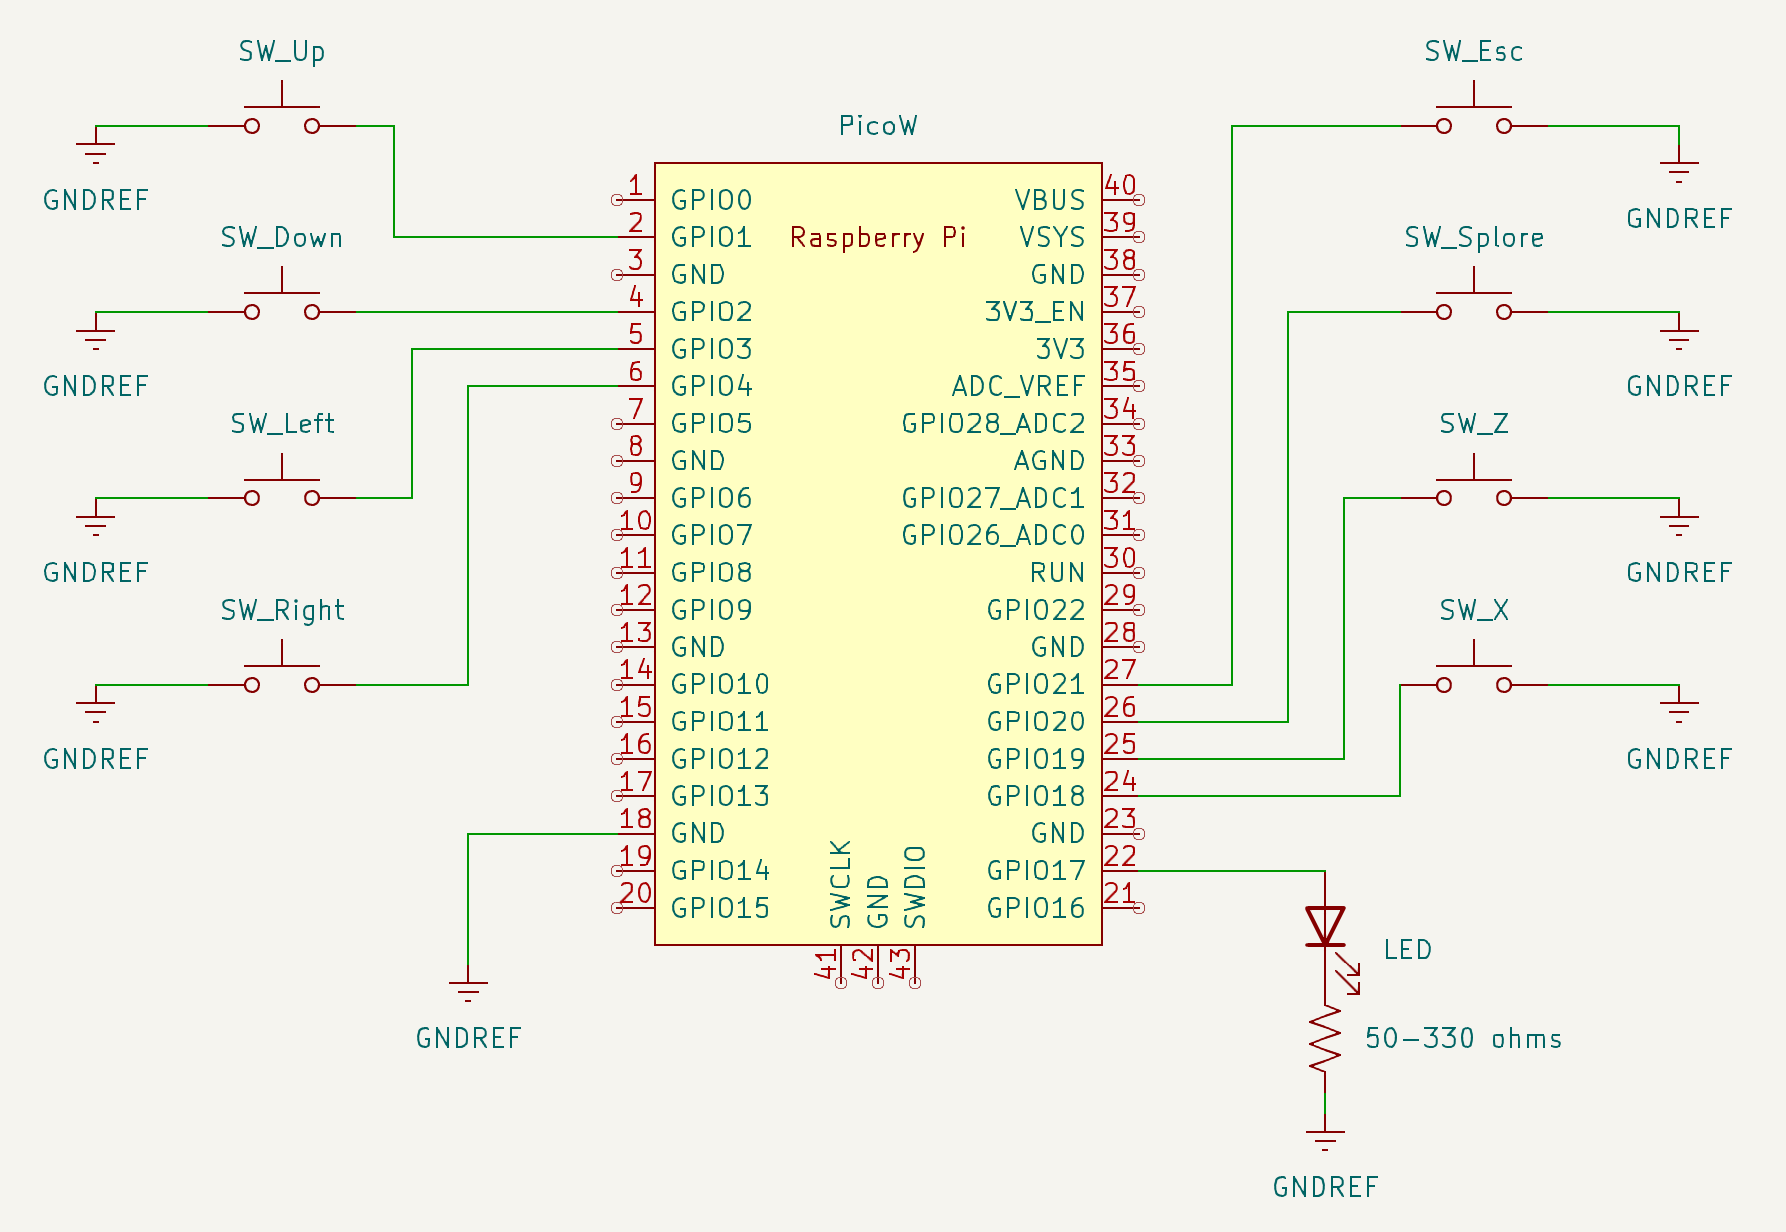
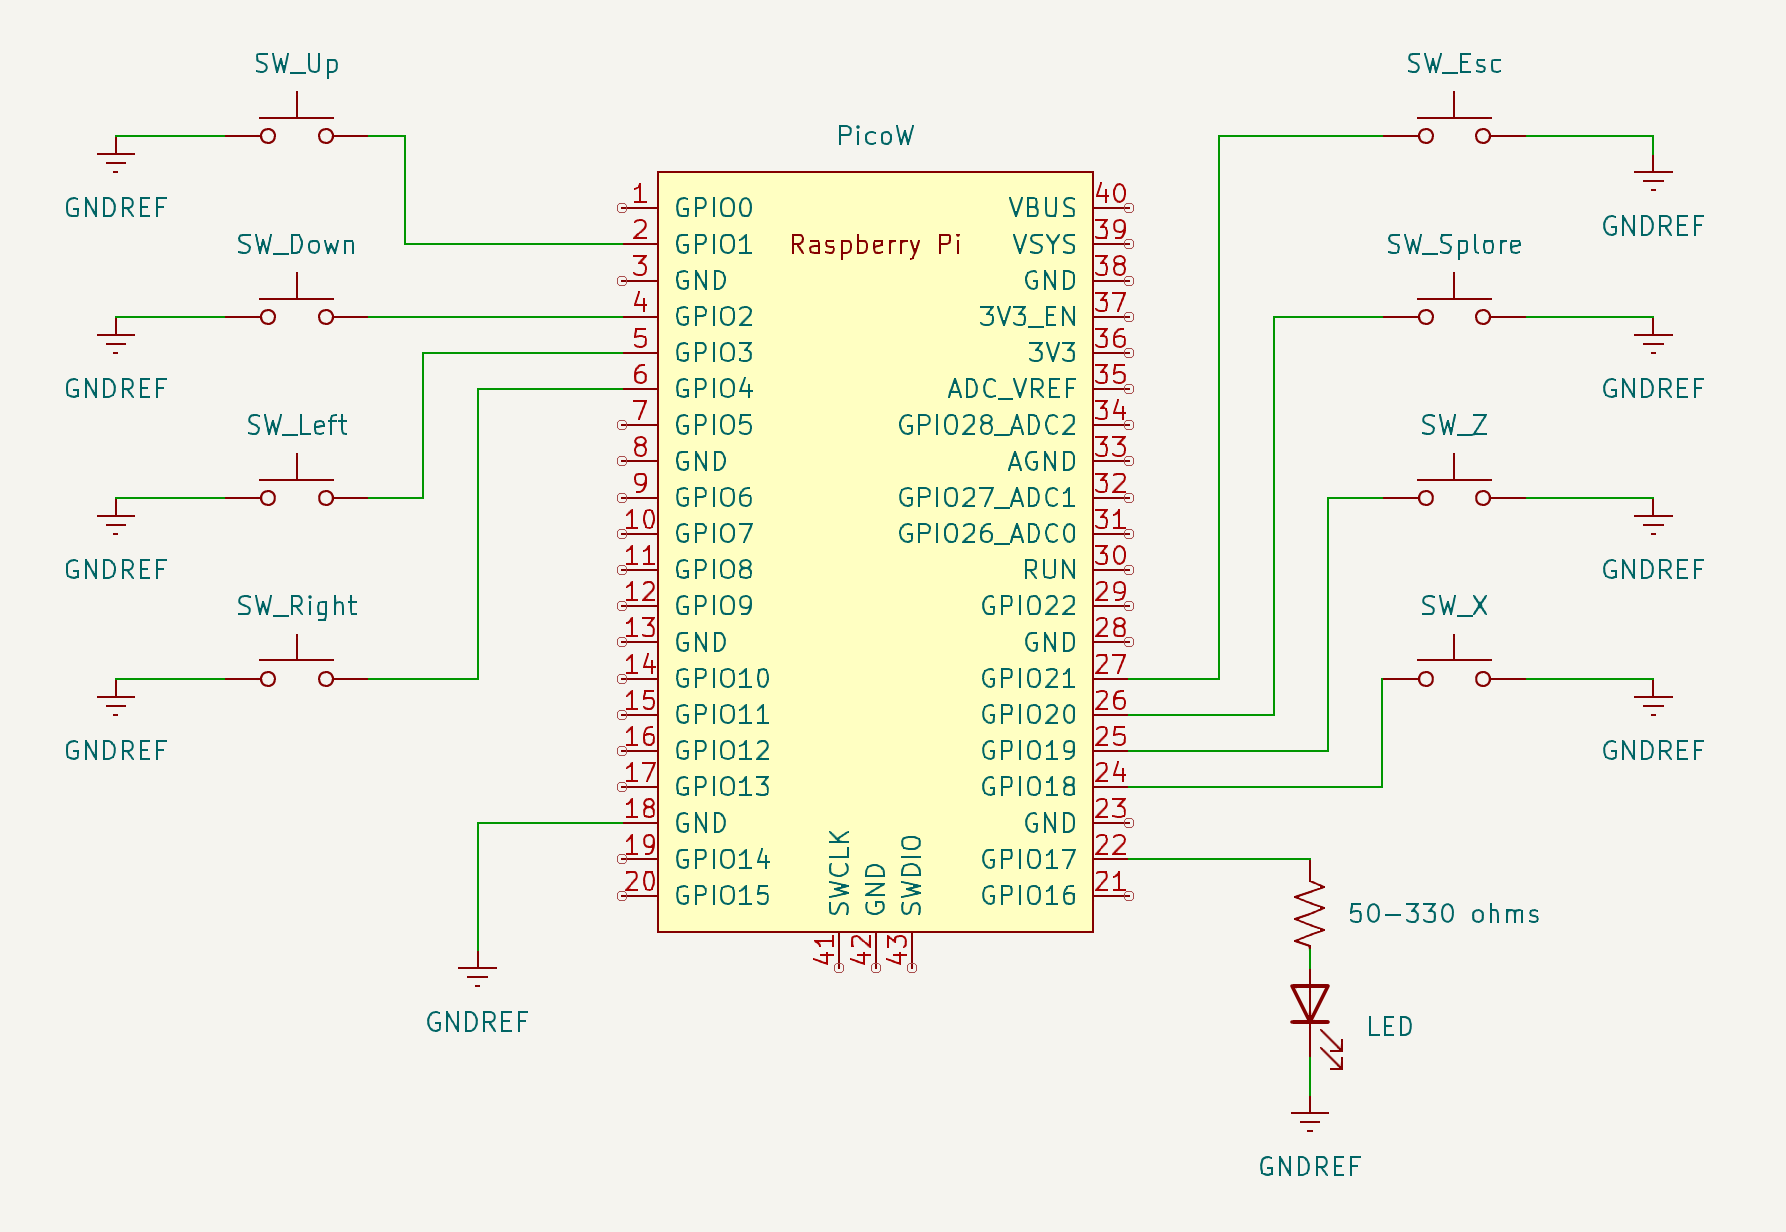
:baby: fix resistor possition on schematics

diff --git a/README.md b/README.md
@@ -6,14 +6,11 @@ NOTE: this is Work In Progress! I am still designing the product; the following 
 
 <img alt='PICO-8 arcade controller concept' src='https://github.com/isacben/picocade/blob/main/img/concept.png' width='500'>
 
-## Schematics
+## Documentation 
 
-Notes:
+The list of parts (BOM) and the guide to build this arcade controller is here:
 
-- [Download the Raspberry Pi Pico KiCad symbol](https://forums.raspberrypi.com/viewtopic.php?t=336825)
-- [Import KiCad symbols to the global library](https://forum.kicad.info/t/copying-new-symbols-from-one-project-to-another/36338/4)
-
-![Schematics](https://github.com/isacben/picocade/blob/main/img/schematic.png)
+[https://github.com/isacben/picocade/tree/main/docs](https://github.com/isacben/picocade/tree/main/docs)
 
 ## Firmware
 

diff --git a/docs/soldering.md b/docs/soldering.md
@@ -1,1 +1,18 @@
 # Solder the components
+
+## Schematics
+
+If you want to lunch the KiCad project, you might need to import the Raspberry Pi Pico KiCad symbol:
+
+- [Download the Raspberry Pi Pico KiCad symbol](https://forums.raspberrypi.com/viewtopic.php?t=336825)
+- [Import KiCad symbols to the global library](https://forum.kicad.info/t/copying-new-symbols-from-one-project-to-another/36338/4)
+
+Otherwise, this schematic shows the connections:
+
+![Schematics](https://github.com/isacben/picocade/blob/main/img/schematic.png)
+
+## Prototyping
+
+You might want to test your circuit on a bread board:
+
+![Schematics](https://github.com/isacben/picocade/blob/main/img/prototype.png)
